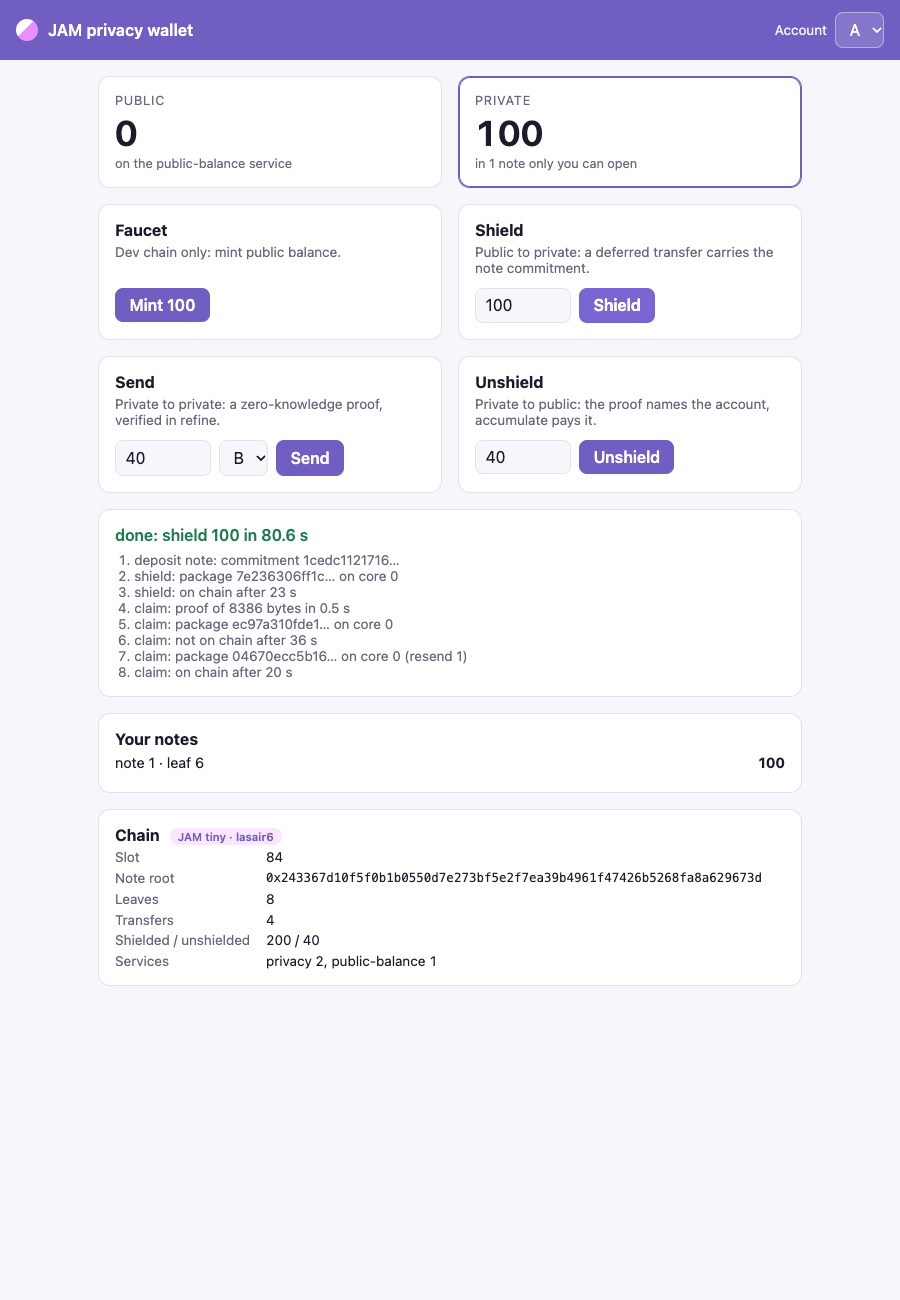
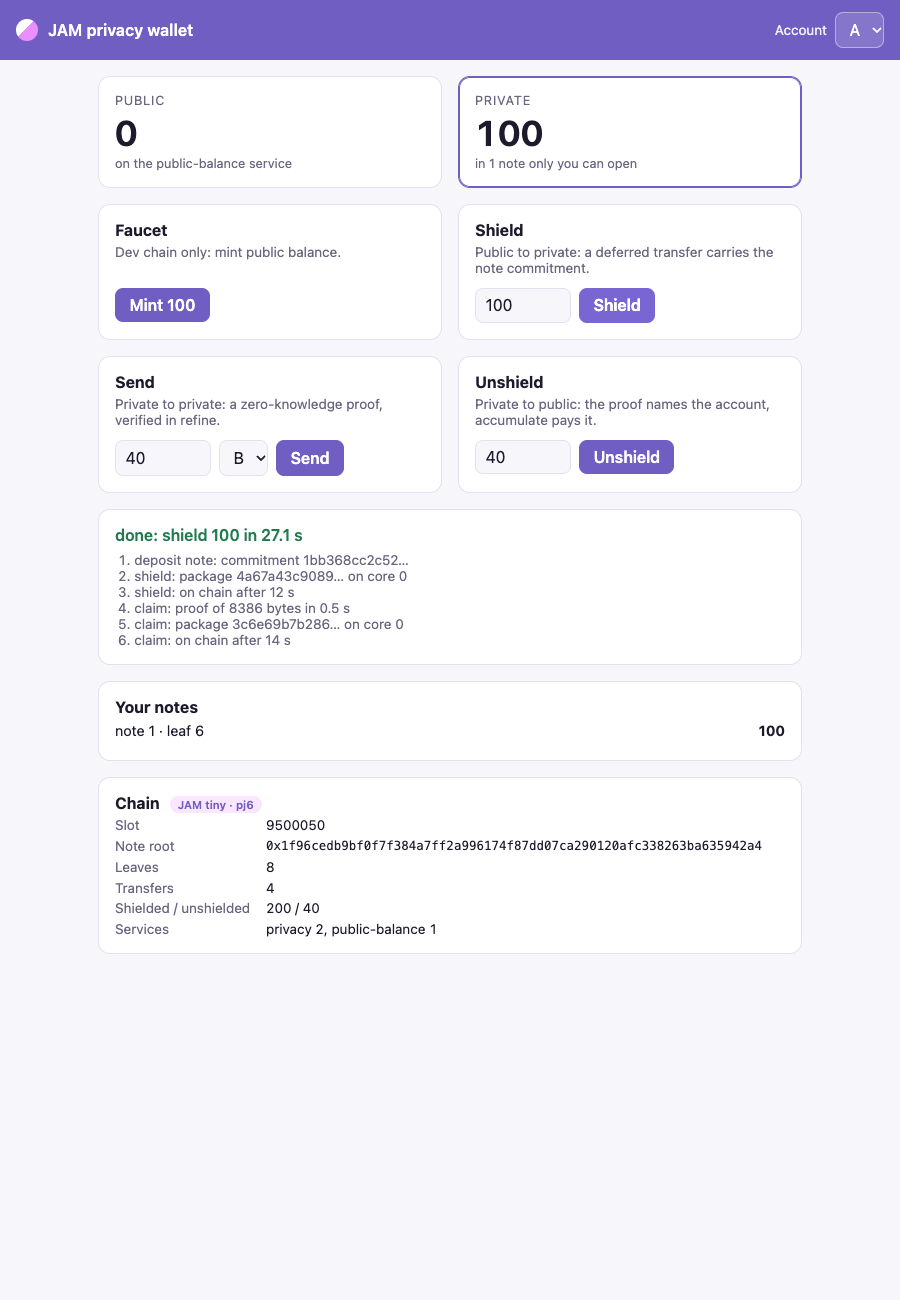
#4 part one: nets/net.sh runs the demo on lasair6 or pj6 (NET=); check and the e2e pass on six PolkaJam validators, and still on lasair6

Changed region(s): [[0.1244, 0.4, 0.84, 0.7385], [0.84, 0.5538, 0.8711, 0.6154]]

diff --git a/indexer/indexer.py b/indexer/indexer.py
@@ -40,7 +40,7 @@ def refresh():
             at = head.hash
             n = u64(pv.read(b"leaves", at))
             leaves = [pv.read(b"leaf:" + struct.pack("<Q", i), at).hex() for i in range(n)]
-            s = {"ok": True, "slot": head.slot, "head": at.hex(), "privacy_id": PRIVACY, "public_id": PUBLIC,
+            s = {"ok": True, "net": os.environ.get("NET_NAME", ""), "slot": head.slot, "head": at.hex(), "privacy_id": PRIVACY, "public_id": PUBLIC,
                  "note_root": pv.read(b"root:note", at).hex(), "null_root": pv.read(b"root:null", at).hex(),
                  "leaves": leaves, "leaf_count": n, "transfers": u64(pv.read(b"transfers", at)),
                  "shielded": u64(pv.read(b"shielded", at)), "unshielded": u64(pv.read(b"unshielded", at)),

diff --git a/client/wallet.py b/client/wallet.py
@@ -156,7 +156,7 @@ def state_for(user):
              for n in privacy.unspent(user)]
     return {"user": user, "account": ACCOUNTS.get(user), "public": public_balance(user),
             "private": sum(n["value"] for n in notes), "notes": notes,
-            "chain": {k: s.get(k) for k in ("slot", "note_root", "null_root", "leaf_count", "transfers",
+            "chain": {k: s.get(k) for k in ("net", "slot", "note_root", "null_root", "leaf_count", "transfers",
                                              "shielded", "unshielded", "privacy_id", "public_id")}}
 
 

diff --git a/README.md b/README.md
@@ -36,6 +36,10 @@ nets/demo.sh unshield   # B unshields 40 to B's public account
 nets/demo.sh down       # stop everything, wipe the chain
 ```
 
+Every stage runs on either of two six-validator nets: `NET=lasair6` (the default: six
+[lasair](https://github.com/abutlabs/lasair) validators) or `NET=pj6` (six PolkaJam
+validators), e.g. `NET=pj6 nets/demo.sh up`. The service is the same blob on both.
+
 The wallet is at <http://localhost:19710/?user=A>; open `?user=B` in a second browser to
 watch the payment arrive. `send` and `unshield` take arguments (`nets/demo.sh send A B 25`).
 `node client/e2e/e2e.mjs` (after `npm install` in `client/e2e`) drives two browsers
@@ -78,8 +82,8 @@ Real:
   replayed proof is dropped.
 - **Shield and unshield.** JAM deferred transfers between two services: the shield's memo
   carries the note commitment, the unshield's carries the receiving account.
-- **The network.** Six lasair validators (an independent GP 0.8.0 client) on one tiny-spec
-  genesis, with GRANDPA finality; services deployed through the Bootstrap service over
+- **The network.** Six lasair validators (an independent GP 0.8.0 client), or six PolkaJam
+  validators, on one tiny-spec genesis, with GRANDPA finality; services deployed through the Bootstrap service over
   JIP-2; packages guaranteed by three co-signing validators.
 
 Reduced, each with an issue that names the price and the way back:
@@ -113,7 +117,7 @@ Reduced, each with an issue that names the price and the way back:
 | `client/wallet.py` | the wallet's backend: the page plus `/api/{state,mint,shield,send,unshield}` |
 | `client/e2e/` | two browsers, three moves, six screenshots |
 | `indexer/indexer.py` | follows the chain over JIP-2, serves it over HTTP |
-| `nets/` | `demo.sh` (the stages), `lasair6.sh`, `jamctl.py` |
+| `nets/` | `demo.sh` (the stages), `net.sh` (lasair6 or pj6), `jamctl.py` |
 | `spikes/ultrahonk-gas/` | the gate: the verifier's gas on the PVM |
 
 The services build with jamswap's `jam080-build` (GP 0.8.0); the crates.io `jam-pvm-build`

diff --git a/docs/LEDGER.md b/docs/LEDGER.md
@@ -504,3 +504,22 @@ Next: #4: the demo on the PolkaJam-only net. `nets/pj6.sh` as the counterpart of
 `NET=` switch in `nets/demo.sh` so up, check and the stages run on lasair6 or pj6; run
 `check` on pj6. The hour's soak comes after.
 Blockers: none.
+
+## 2026-10-23 14 — #4, part one: the demo on six PolkaJam validators
+Did: `nets/lasair6.sh` became `nets/net.sh`, chosen by `NET=lasair6` (default) or `NET=pj6`
+(jamswap's `nets/compose/pj6.yml`: six PolkaJam validators and an ordinary PolkaJam node
+serving JIP-2). It uses jamswap's project names and reads the RPC node's network and the
+`/shared` volume from `docker compose config` instead of hard-coding them. `nets/demo.sh`
+passes `NET` through; the indexer reports the net and the wallet page shows it. Ran the
+demo on pj6, then on lasair6 again under the renamed project.
+Evidence: `NET=pj6 nets/demo.sh up` → `service 1 ready (created #9500015)`, `service 2
+ready (created #9500020)`, `indexer up on pj6`, 1 min 14 s. `NET=pj6 nets/demo.sh check` →
+`34 ok, 0 FAIL, 0 resends`, `PASS`, 1 min 46 s. `node client/e2e/e2e.mjs` on pj6 → `PASS: 5
+assertions`, 1 min 18 s (mint 10.1 s, shield 27.1 s, send 18.2 s, unshield 18.3 s). Then
+`nets/demo.sh up` (lasair6) 1 min 25 s, `check` → `34 ok, 0 FAIL, 0 resends`, 3 min 05 s.
+Issues: #4 (part one), #14 (first numbers: the same check, pj6 1:46, lasair6 3:05).
+Next: #4, part two: the hour's soak on pj6: `nets/soak.sh` sends one privacy package a slot
+(a pre-proven chain of sends between A and B, so proving never paces it), records every
+root change, package status and finalized slot, and ends with a verdict: zero dropped roots,
+finality advancing. Then close #4.
+Blockers: none. lasair6 left running.
